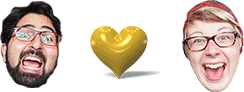
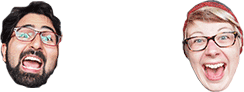
adding fade in to faces

Changed region(s): [[0.3443, 0.2826, 0.6598, 0.8696]]

diff --git a/js/main.js b/js/main.js
@@ -1,4 +1,17 @@
+function scroll( e ) {
+  var faces = $( '.faces' );
+  if( window.pageYOffset > 400 ) {
+    faces.css( 'visibility', 'visible' ).fadeIn( 'slow' );
+  } else {
+    faces.css( 'visibility', 'hidden' ).hide();
+  }
+}
+
 $(function() {
+
+
+  window.addEventListener( 'scroll', scroll, false );
+
   $( 'form input[type="email"], form input[type="text"], form textarea' ).each(function( e, i ) {
     
     $( this ).val( $( this ).data( 'value' ) );

diff --git a/index.html b/index.html
@@ -26,7 +26,10 @@
         <h3>Please <br />
           RSVP</h3>
       </div>
-      <img src="img/j+k+heart.png" />
+      <div class="heart-faces">
+        <img class="faces" src="img/j+k+heart.png" />
+        <img class="heart" src="img/heart.gif" />
+      </div>
       <h1>Everything goes down Saturday July 26, 2014.</h1>
     </header>
     <div class="container">

diff --git a/css/main.css b/css/main.css
@@ -534,7 +534,27 @@ form label {
 }
 
 
+.heart-faces {
+	position: relative;
+	width: 244px;
+	margin: 0 auto;
+}
 
+.heart-faces .heart {
+	/* position: absolute;
+	top: 0;
+	left: 73px; */
+}
+
+.heart-faces .faces {
+	position: absolute;
+	top: 0;
+	left: 0;
+}
+
+.faces {
+	display: none;
+}
 
 .error {
 	display: none;

diff --git a/rsvp.html b/rsvp.html
@@ -23,7 +23,7 @@
         </nav>
         <h1>RSVP</h1>
       </div>
-      <img src="img/j+k+heart.png" />
+      <img class="faces" src="img/j+k+heart.png" />
     </header>
 
     <div class="container">
